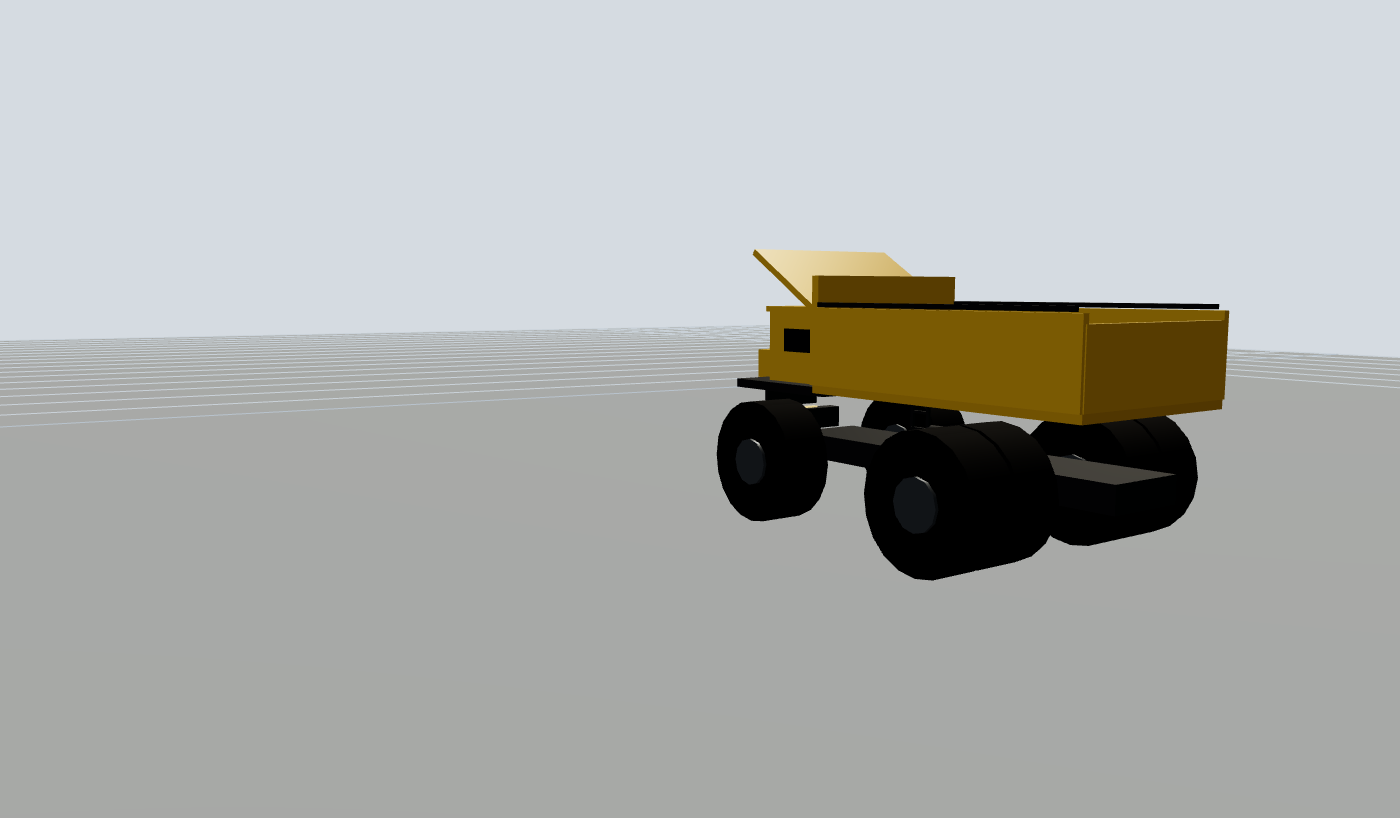
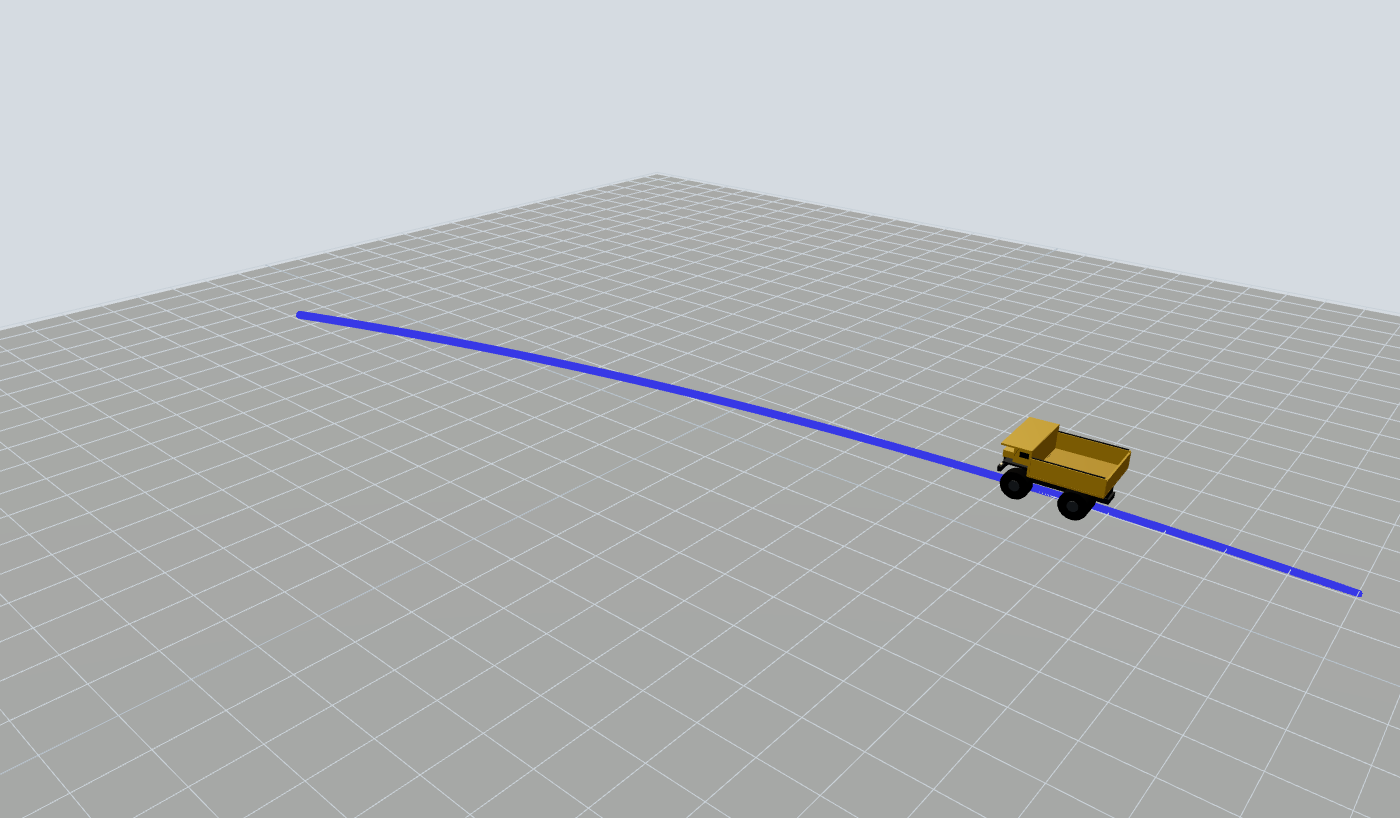
Fix path truncation, improve haul truck proportions, fix child frame autocomplete

Changed region(s): [[0.0, 0.2139, 1.0, 0.7335], [0.9829, 0.489, 1.0, 0.5196], [0.1229, 0.9474, 0.1536, 0.978]]

diff --git a/extensions/model_ghost_preview/extension/src/scene/GhostScene.ts b/extensions/model_ghost_preview/extension/src/scene/GhostScene.ts
@@ -116,13 +116,12 @@ export class GhostScene {
     this.#label.style.transform = "translate(-50%, -130%)";
     this.#label.style.padding = "2px 6px";
     this.#label.style.borderRadius = "4px";
-    this.#label.style.background = "rgba(12, 32, 48, 0.8)";
-    this.#label.style.color = "#d7f3ff";
     this.#label.style.fontSize = "12px";
     this.#label.style.fontFamily = "system-ui, sans-serif";
     this.#label.style.pointerEvents = "none";
     this.#label.style.whiteSpace = "nowrap";
     this.#label.style.display = "none";
+    this.#styleLabel();
     container.appendChild(this.#label);
 
     this.#scene = new Scene();
@@ -261,6 +260,10 @@ export class GhostScene {
     this.#currentRoot.visible = pose != undefined;
     if (pose) {
       applyPose(this.#currentRoot, pose);
+      this.#anchor.z = pose.position[2];
+      if (this.#grid) {
+        this.#grid.position.z = pose.position[2] + 0.02;
+      }
     }
     this.#applyFollow();
     this.#requestRender();
@@ -352,17 +355,24 @@ export class GhostScene {
 
   framePath(): void {
     const start = this.#pathPoints[0];
-    const near =
-      this.#pathPoints[Math.min(this.#pathPoints.length - 1, Math.floor(this.#pathPoints.length * 0.2))] ??
-      start;
-    const focusPoint =
-      this.#pathPoints[Math.min(this.#pathPoints.length - 1, Math.floor(this.#pathPoints.length * 0.4))] ??
-      near;
     const end = this.#pathPoints[this.#pathPoints.length - 1];
-    if (!start || !near || !focusPoint || !end) {
+    if (!start || !end) {
       return;
     }
-    const direction = new Vector3().subVectors(focusPoint, start);
+    const bounds = new Box3();
+    for (const point of this.#pathPoints) {
+      bounds.expandByPoint(point);
+    }
+    const focus = bounds.getCenter(new Vector3());
+    focus.z += 1.2;
+    const size = bounds.getSize(new Vector3());
+    const radius = Math.max(0.5 * Math.hypot(size.x, size.y, size.z), 12);
+    const vertical = (this.#camera.fov * Math.PI) / 180;
+    const aspect = this.#width / Math.max(this.#height, 1);
+    const horizontal = 2 * Math.atan(Math.tan(vertical / 2) * Math.max(aspect, 0.5));
+    const fitAngle = Math.min(vertical, horizontal) / 2;
+    const distance = (radius / Math.sin(fitAngle)) * 0.72;
+    const direction = new Vector3().subVectors(end, start);
     if (direction.lengthSq() < 1e-6) {
       direction.set(1, 0, 0);
     }
@@ -372,17 +382,11 @@ export class GhostScene {
       side.set(0, 1, 0);
     }
     side.normalize();
-    const span = Math.max(start.distanceTo(end), 20);
-    const focus = near.clone().lerp(focusPoint, 0.4);
-    focus.z += 1.4;
-    const back = Math.max(12, Math.min(span * 0.09, 16));
-    const lateral = Math.max(14, Math.min(span * 0.13, 18));
-    const height = Math.max(4.2, Math.min(span * 0.04, 6));
     this.#camera.position
-      .copy(near)
-      .addScaledVector(direction, -back)
-      .addScaledVector(side, -lateral)
-      .setZ(near.z + height);
+      .copy(focus)
+      .addScaledVector(direction, -distance * 0.42)
+      .addScaledVector(side, -distance * 0.72)
+      .setZ(focus.z + distance * 0.38);
     this.#controls.target.copy(focus);
     this.#controls.update();
     this.#followOffset.copy(this.#camera.position).sub(this.#controls.target);
@@ -415,7 +419,15 @@ export class GhostScene {
     this.#hemi.groundColor.set(dark ? 0x3a332c : 0x8a8178);
     this.#hemi.intensity = dark ? 1.35 : 0.92;
     this.#sun.intensity = dark ? 2.15 : 1.35;
+    this.#styleLabel();
     this.#rebuildGrid();
+  }
+
+  #styleLabel(): void {
+    const dark = this.#scheme === "dark";
+    this.#label.style.background = dark ? "rgba(236, 246, 252, 0.94)" : "rgba(12, 32, 48, 0.8)";
+    this.#label.style.color = dark ? "#102433" : "#d7f3ff";
+    this.#label.style.border = dark ? "1px solid #ffffff" : "1px solid transparent";
   }
 
   #rebuildGrid(): void {
@@ -502,10 +514,11 @@ export class GhostScene {
     }
     const span = Math.max(maxX - minX, maxY - minY, 40);
     this.#gridSize = Math.max(span * 1.5, 80);
-    this.#anchor.set((minX + maxX) / 2, (minY + maxY) / 2, minZ);
+    const poseZ = this.#currentPose?.position[2];
+    this.#anchor.set((minX + maxX) / 2, (minY + maxY) / 2, poseZ ?? minZ);
     this.#ground.geometry.dispose();
     this.#ground.geometry = new PlaneGeometry(this.#gridSize, this.#gridSize);
-    this.#ground.position.set(this.#anchor.x, this.#anchor.y, minZ - 0.02);
+    this.#ground.position.set((minX + maxX) / 2, (minY + maxY) / 2, minZ - 0.02);
     this.#rebuildGrid();
   }
 
@@ -551,19 +564,13 @@ export class GhostScene {
     }
     const positions = linePositions(points, lift);
     const hex = safeHex(color);
-    if (current && writeLinePositions(current.geometry, positions)) {
+    const geometry = lineGeometryForPositions(current?.geometry, positions);
+    if (current?.geometry === geometry) {
       current.material.color.set(hex);
       current.material.linewidth = width;
       return current;
     }
-    if (current) {
-      current.geometry.setPositions(positions);
-      current.material.color.set(hex);
-      current.material.linewidth = width;
-      return current;
-    }
-    const geometry = new LineGeometry();
-    geometry.setPositions(positions);
+    this.#removeFatLine(current);
     const material = new LineMaterial({
       color: hex,
       linewidth: width,
@@ -815,6 +822,18 @@ function linePositions(points: readonly Vector3[], lift: number): Float32Array {
     positions[index * 3 + 2] = point.z + lift;
   }
   return positions;
+}
+
+export function lineGeometryForPositions(
+  current: LineGeometry | undefined,
+  positions: Float32Array,
+): LineGeometry {
+  if (current && writeLinePositions(current, positions)) {
+    return current;
+  }
+  const created = new LineGeometry();
+  created.setPositions(positions);
+  return created;
 }
 
 function writeLinePositions(geometry: LineGeometry, positions: Float32Array): boolean {

diff --git a/extensions/model_ghost_preview/extension/src/scene/truckModel.ts b/extensions/model_ghost_preview/extension/src/scene/truckModel.ts
@@ -32,22 +32,48 @@ export function createTruckModel(bodyColor: string): Group {
   const wheelGeo = new CylinderGeometry(1.1, 1.1, 0.86, 20);
   const hubGeo = new CylinderGeometry(0.42, 0.42, 0.98, 12);
 
-  add(root, { name: "chassis", geometry: box(7.0, 1.5, 0.45), material: dark, position: [0.3, 0, 1.25] });
+  add(root, { name: "chassis", geometry: box(7.0, 1.4, 0.42), material: dark, position: [0.3, 0, 1.15] });
+  add(root, { name: "frame", geometry: box(6.4, 1.2, 1.22), material: dark, position: [0.15, 0, 1.7] });
+  add(root, {
+    name: "axle",
+    geometry: new CylinderGeometry(0.35, 0.35, 2.76, 16),
+    material: dark,
+    position: [3.2, 0, 1.1],
+  });
+  add(root, {
+    name: "axle",
+    geometry: new CylinderGeometry(0.35, 0.35, 1.76, 16),
+    material: dark,
+    position: [-1.3, 0, 1.1],
+  });
+  add(root, {
+    name: "hoist",
+    geometry: new CylinderGeometry(0.16, 0.16, 0.4, 12),
+    material: dark,
+    position: [-0.35, 0.42, 2.28],
+    rotation: [Math.PI / 2, 0, 0],
+  });
+  add(root, {
+    name: "hoist",
+    geometry: new CylinderGeometry(0.16, 0.16, 0.4, 12),
+    material: dark,
+    position: [-0.35, -0.42, 2.28],
+    rotation: [Math.PI / 2, 0, 0],
+  });
   add(root, { name: "deck", geometry: box(2.5, 3.3, 0.16), material: dark, position: [3.25, 0, 2.42] });
-  add(root, { name: "bed-floor", geometry: box(5.5, 3.45, 0.16), material: bed, position: [-0.55, 0, 2.48] });
-  add(root, { name: "bed-wall", geometry: box(5.5, 0.12, 1.35), material: body, position: [-0.55, 1.72, 3.22] });
-  add(root, { name: "bed-wall", geometry: box(5.5, 0.12, 1.35), material: body, position: [-0.55, -1.72, 3.22] });
-  add(root, { name: "tailgate", geometry: box(0.14, 3.45, 1.2), material: body, position: [-3.25, 0, 3.15] });
-  add(root, { name: "headboard", geometry: box(0.16, 3.45, 1.9), material: body, position: [2.15, 0, 3.5] });
+  add(root, { name: "bed-floor", geometry: box(5.5, 5.6, 0.16), material: bed, position: [-0.55, 0, 2.48] });
+  add(root, { name: "bed-wall", geometry: box(5.5, 0.16, 1.35), material: body, position: [-0.55, 2.72, 3.22] });
+  add(root, { name: "bed-wall", geometry: box(5.5, 0.16, 1.35), material: body, position: [-0.55, -2.72, 3.22] });
+  add(root, { name: "tailgate", geometry: box(0.14, 5.6, 1.25), material: body, position: [-3.25, 0, 3.15] });
+  add(root, { name: "headboard", geometry: box(0.18, 5.6, 2.05), material: body, position: [2.16, 0, 3.48] });
   add(root, {
     name: "canopy",
-    geometry: box(2.15, 3.35, 0.12),
+    geometry: box(2.3, 5.6, 0.14),
     material: body,
-    position: [3.05, 0, 4.35],
-    rotation: [0, -0.55, 0],
+    position: [3.25, 0, 4.42],
   });
-  add(root, { name: "rail", geometry: box(5.2, 0.08, 0.08), material: dark, position: [-0.55, 1.72, 3.95] });
-  add(root, { name: "rail", geometry: box(5.2, 0.08, 0.08), material: dark, position: [-0.55, -1.72, 3.95] });
+  add(root, { name: "rail", geometry: box(5.2, 0.08, 0.08), material: dark, position: [-0.55, 2.72, 3.95] });
+  add(root, { name: "rail", geometry: box(5.2, 0.08, 0.08), material: dark, position: [-0.55, -2.72, 3.95] });
 
   add(root, { name: "cab", geometry: box(1.45, 1.25, 1.3), material: body, position: [3.15, 0.72, 3.15] });
   add(root, { name: "cab-roof", geometry: box(1.6, 1.4, 0.1), material: body, position: [3.1, 0.72, 3.85] });

diff --git a/extensions/model_ghost_preview/extension/src/scene/truckModel.test.ts b/extensions/model_ghost_preview/extension/src/scene/truckModel.test.ts
@@ -31,6 +31,35 @@ describe("createTruckModel", () => {
       expect(tankBox.intersectsBox(bounds)).toBe(false);
     }
   });
+
+  it("keeps the bed at least as wide as the outer duals and attaches the canopy to the headboard", () => {
+    const root = createTruckModel("#e6b422");
+    root.updateMatrixWorld(true);
+    const meshes = collectMeshes(root);
+    const bed = new Box3();
+    for (const mesh of meshes) {
+      if (mesh.name === "bed-floor" || mesh.name === "bed-wall" || mesh.name === "tailgate" || mesh.name === "headboard") {
+        bed.union(new Box3().setFromObject(mesh));
+      }
+    }
+    const tires = new Box3();
+    for (const mesh of meshes) {
+      if (mesh.name === "wheel") {
+        tires.union(new Box3().setFromObject(mesh));
+      }
+    }
+    expect(bed.max.y).toBeGreaterThanOrEqual(tires.max.y);
+    expect(bed.min.y).toBeLessThanOrEqual(tires.min.y);
+    const canopy = meshes.find((mesh) => mesh.name === "canopy");
+    const headboard = meshes.find((mesh) => mesh.name === "headboard");
+    expect(canopy).toBeDefined();
+    expect(headboard).toBeDefined();
+    if (!canopy || !headboard) {
+      return;
+    }
+    expect(Math.abs(canopy.rotation.y)).toBeLessThanOrEqual(0.05);
+    expect(new Box3().setFromObject(canopy).intersectsBox(new Box3().setFromObject(headboard))).toBe(true);
+  });
 });
 
 function collectMeshes(root: Object3D): Mesh[] {

diff --git a/extensions/model_ghost_preview/extension/src/poses/extractPose.ts b/extensions/model_ghost_preview/extension/src/poses/extractPose.ts
@@ -22,13 +22,17 @@ export class ChildFrameLock {
   }
 
   observed(): readonly string[] {
-    return this.#seen;
+    return this.#seen.slice();
   }
 
-  accept(actual: string | undefined, wanted: string | undefined): boolean {
+  note(actual: string | undefined): void {
     if (actual != undefined && actual.length > 0 && !this.#seen.includes(actual)) {
       this.#seen.push(actual);
     }
+  }
+
+  accept(actual: string | undefined, wanted: string | undefined): boolean {
+    this.note(actual);
     if (wanted != undefined && wanted.length > 0) {
       return actual === wanted;
     }
@@ -199,6 +203,11 @@ function firstMatching(
   if (!items) {
     return undefined;
   }
+  if (childFrameLock) {
+    for (const item of items) {
+      childFrameLock.note(readChildFrameId(item));
+    }
+  }
   for (const item of items) {
     const pose = read(item, childFrameId, childFrameLock);
     if (pose) {
@@ -206,6 +215,14 @@ function firstMatching(
     }
   }
   return undefined;
+}
+
+function readChildFrameId(message: unknown): string | undefined {
+  const record = asRecord(message);
+  if (!record) {
+    return undefined;
+  }
+  return readString(record["child_frame_id"]);
 }
 
 function childFrameMatches(

diff --git a/extensions/model_ghost_preview/extension/src/scene/fatLine.test.ts b/extensions/model_ghost_preview/extension/src/scene/fatLine.test.ts
@@ -1,0 +1,24 @@
+import { describe, expect, it } from "vitest";
+
+import { lineGeometryForPositions } from "./GhostScene";
+
+describe("lineGeometryForPositions", () => {
+  it("reuses the geometry when the vertex count stays the same and replaces it when the count changes", () => {
+    const first = lineGeometryForPositions(undefined, vertices(4));
+    const sameCount = lineGeometryForPositions(first, vertices(4));
+    expect(sameCount).toBe(first);
+    const grown = lineGeometryForPositions(first, vertices(12));
+    expect(grown).not.toBe(first);
+    expect(lineGeometryForPositions(grown, vertices(12))).toBe(grown);
+  });
+});
+
+function vertices(count: number): Float32Array {
+  const positions = new Float32Array(count * 3);
+  for (let index = 0; index < count; index += 1) {
+    positions[index * 3] = index;
+    positions[index * 3 + 1] = index * 0.1;
+    positions[index * 3 + 2] = 0;
+  }
+  return positions;
+}

diff --git a/extensions/model_ghost_preview/extension/src/poses/extractPose.test.ts b/extensions/model_ghost_preview/extension/src/poses/extractPose.test.ts
@@ -73,11 +73,14 @@ describe("extractPose", () => {
       extractPose("foxglove.FrameTransforms", { transforms: [base, truck] }, { childFrameLock: lock })
         ?.position,
     ).toEqual([4, 0, 0]);
+    expect(lock.observed()).toEqual(["base", "truck"]);
     expect(
       extractPose("foxglove.FrameTransforms", { transforms: [truck, base] }, { childFrameLock: lock })
         ?.position,
     ).toEqual([4, 0, 0]);
-    expect(lock.observed()).toEqual(["base", "truck"]);
+    const seen = lock.observed();
+    expect(seen).toEqual(["base", "truck"]);
+    expect(seen).not.toBe(lock.observed());
     lock.reset();
     expect(lock.observed()).toEqual([]);
     expect(
